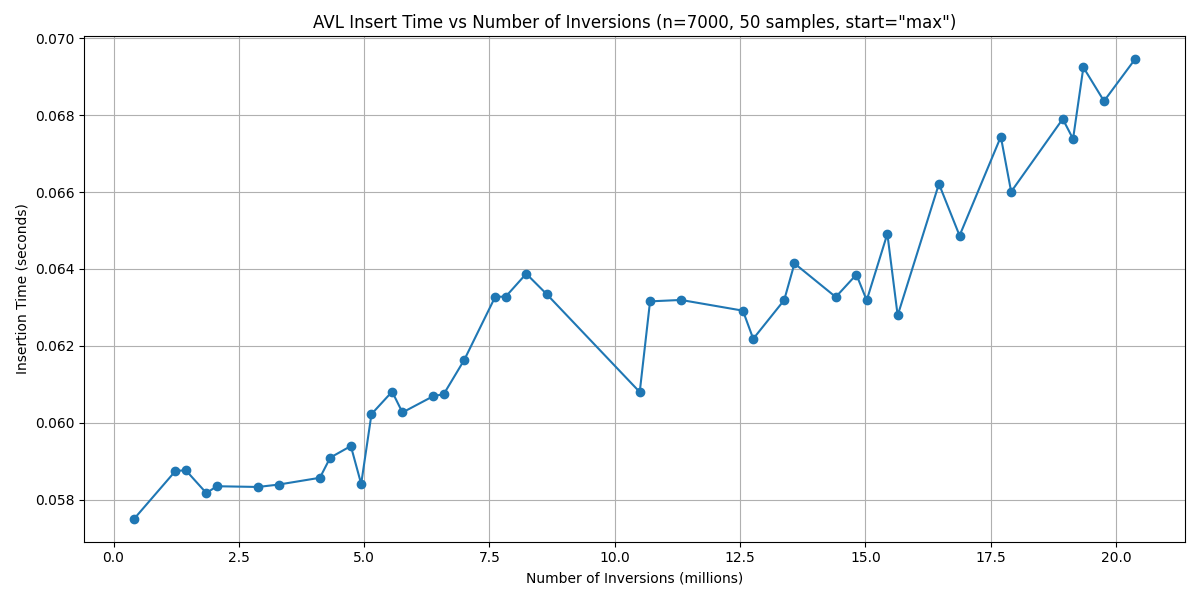
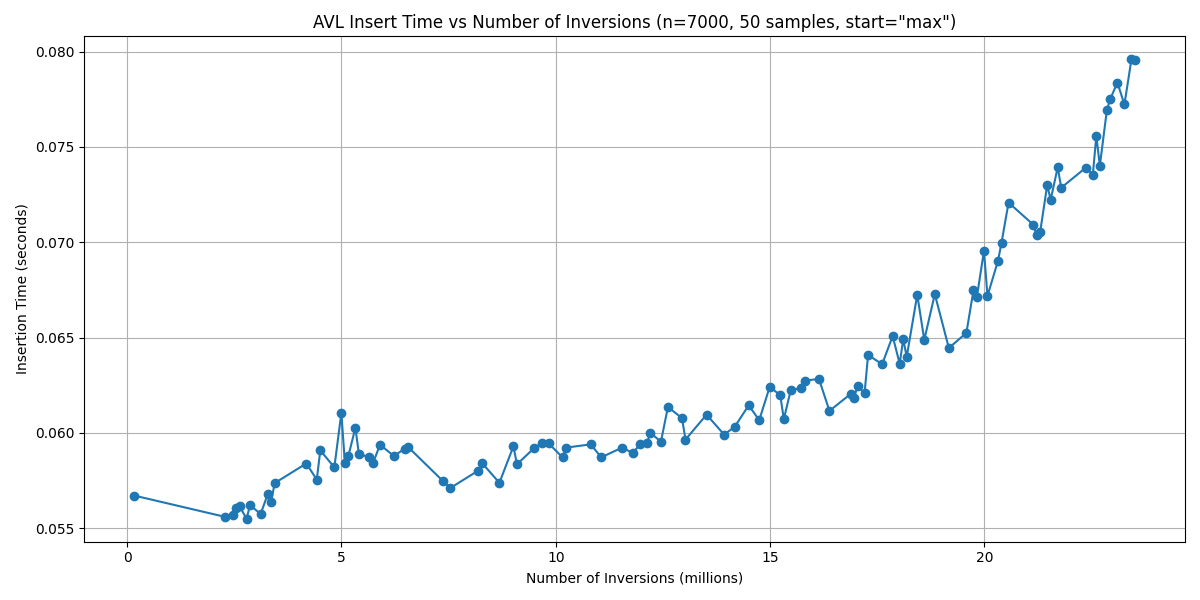
exp3 gets godo results with more points

diff --git a/3rd_experiment/exp_3.py b/3rd_experiment/exp_3.py
@@ -103,7 +103,7 @@ def plot_results(ks, times_max, n):
 
 def main():
     n = 7_000
-    num_points = 230
+    num_points = 300
     repeats = 1
     ks, times_max = run_experiment(n, num_points, repeats)
     plot_results(ks, times_max, n)
